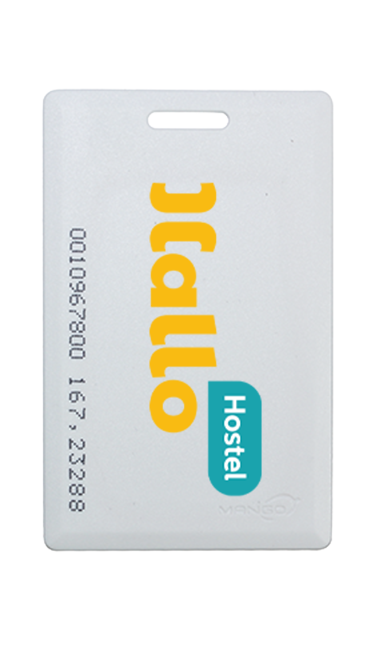
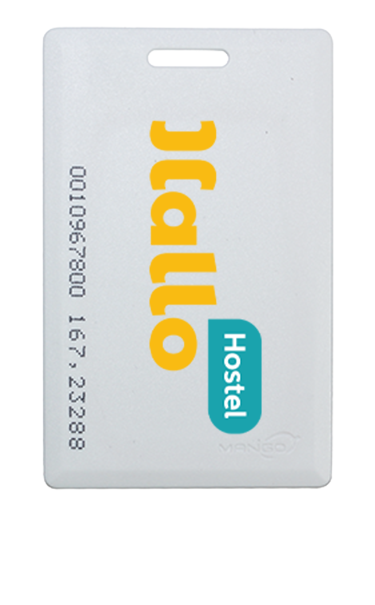
Justeret header
Så den passer på alle undersider

Changed region(s): [[0.1173, 0.0298, 0.9093, 0.7438], [0.176, 0.2678, 0.2347, 0.7736], [0.1173, 0.7736, 0.88, 0.8331]]

diff --git a/hallohostel/css/style.css b/hallohostel/css/style.css
@@ -2,12 +2,40 @@
 body, html {
     height: 100%; font-family:monospace; background-color: #1aa3ad}
 
+/* general */
+h1 {font-size: 10em}
+/* general slut */ 
+
+
+/* header*/   
+header {width:100%; background-color: white;}
+.headericon {max-width:17%;margin-left: auto;}
+header h1 {margin-right: auto}
+.headercontainer {flex-wrap:wrap; display: flex; align-content: center; margin:auto}
+/* header slut */
+
+/* footer */
     footer {background-color: white; width:100%; position: fixed;
     bottom: 0;
     left: 0;
     right: 0;
     height:; text-align: center;}
     .ficon{max-width:17%; vertical-align: middle;}
+/* footer slut */ 
 
-h1{font-size: 10em}
-#keycard {height:100%}
+
+/* home */
+/* home slut */
+
+/* events */
+/* events slut */
+
+/* hangouts */
+/* hangouts slut */
+
+/* keycard */ 
+#keycard {width:100%;}
+/* keycard slut */ 
+
+/* profile */
+/* profile slut */

diff --git a/hallohostel/subpages/hangouts.html b/hallohostel/subpages/hangouts.html
@@ -7,7 +7,13 @@
     <link rel="stylesheet" href="../css/style.css" />
 </head>
 <body>
-<h1>hangouts</h1>
+
+<header>
+<div class="headercontainer">
+<img src="../images/hangouticon.svg" alt="calendericon which hyperlinks to a page with Hallo Hostels events" class="headericon">
+<h1>Hangouts</h1>
+</div> 
+</header>
 
 <footer id="footer">
   <a href="../index.html"><img class="ficon" src="../images/houseicon.svg" alt="houseicon which hyperlinks to the front page"></a>

diff --git a/hallohostel/subpages/profile.html b/hallohostel/subpages/profile.html
@@ -7,7 +7,13 @@
     <link rel="stylesheet" href="../css/style.css" />
 </head>
 <body>
-<h1>profile</h1>
+
+<header>
+<div class="headercontainer">
+<img src="../images/profileicon.svg" alt="calendericon which hyperlinks to a page with Hallo Hostels events" class="headericon">
+<h1>Profile</h1>
+</div> 
+</header>
 
 <footer id="footer">
   <a href="../index.html"><img class="ficon" src="../images/houseicon.svg" alt="houseicon which hyperlinks to the front page"></a>

diff --git a/hallohostel/subpages/events.html b/hallohostel/subpages/events.html
@@ -7,7 +7,13 @@
     <link rel="stylesheet" href="../css/style.css" />
 </head>
 <body>
+
+<header>
+<div class="headercontainer">
+<img src="../images/eventicon.svg" alt="calendericon which hyperlinks to a page with Hallo Hostels events" class="headericon">
 <h1>events</h1>
+</div> 
+</header>
 
 <footer id="footer">
   <a href="../index.html"><img class="ficon" src="../images/houseicon.svg" alt="houseicon which hyperlinks to the front page"></a>

diff --git a/hallohostel/subpages/ecardkey.html b/hallohostel/subpages/ecardkey.html
@@ -7,6 +7,12 @@
     <link rel="stylesheet" href="../css/style.css" />
 </head>
 <body>
+<header>
+<div class="headercontainer">
+<img src="../images/keyicon.svg" alt="calendericon which hyperlinks to a page with Hallo Hostels events" class="headericon">
+<h1>Your key</h1>
+</div> 
+</header>
 <img id="keycard" src="../images/keycard.png" alt="Picture of keycard">
 
 <footer id="footer">
